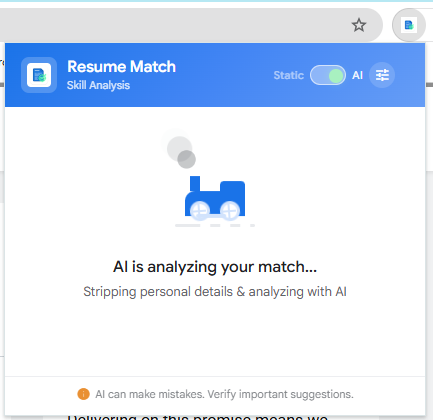
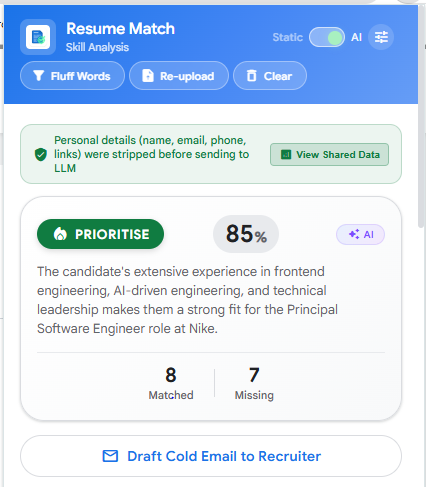
Updated README preview gallery with latest executive verdict screenshot and removed old screenshot.png

diff --git a/README.md b/README.md
@@ -8,7 +8,7 @@
 
 <div align="center">
   <br>
-  <img src="assets/loader_screenshot.png" alt="AI Processing & Steam Train Loader" width="360" style="border-radius: 14px; margin-right: 12px;">
+  <img src="assets/loader_screenshot.png" alt="Executive Match Verdict & AI Privacy Banner" width="360" style="border-radius: 14px; margin-right: 12px;">
   <img src="assets/results_screenshot.png" alt="Match Results & Skill Recommendations" width="360" style="border-radius: 14px;">
   <br><br>
 </div>
